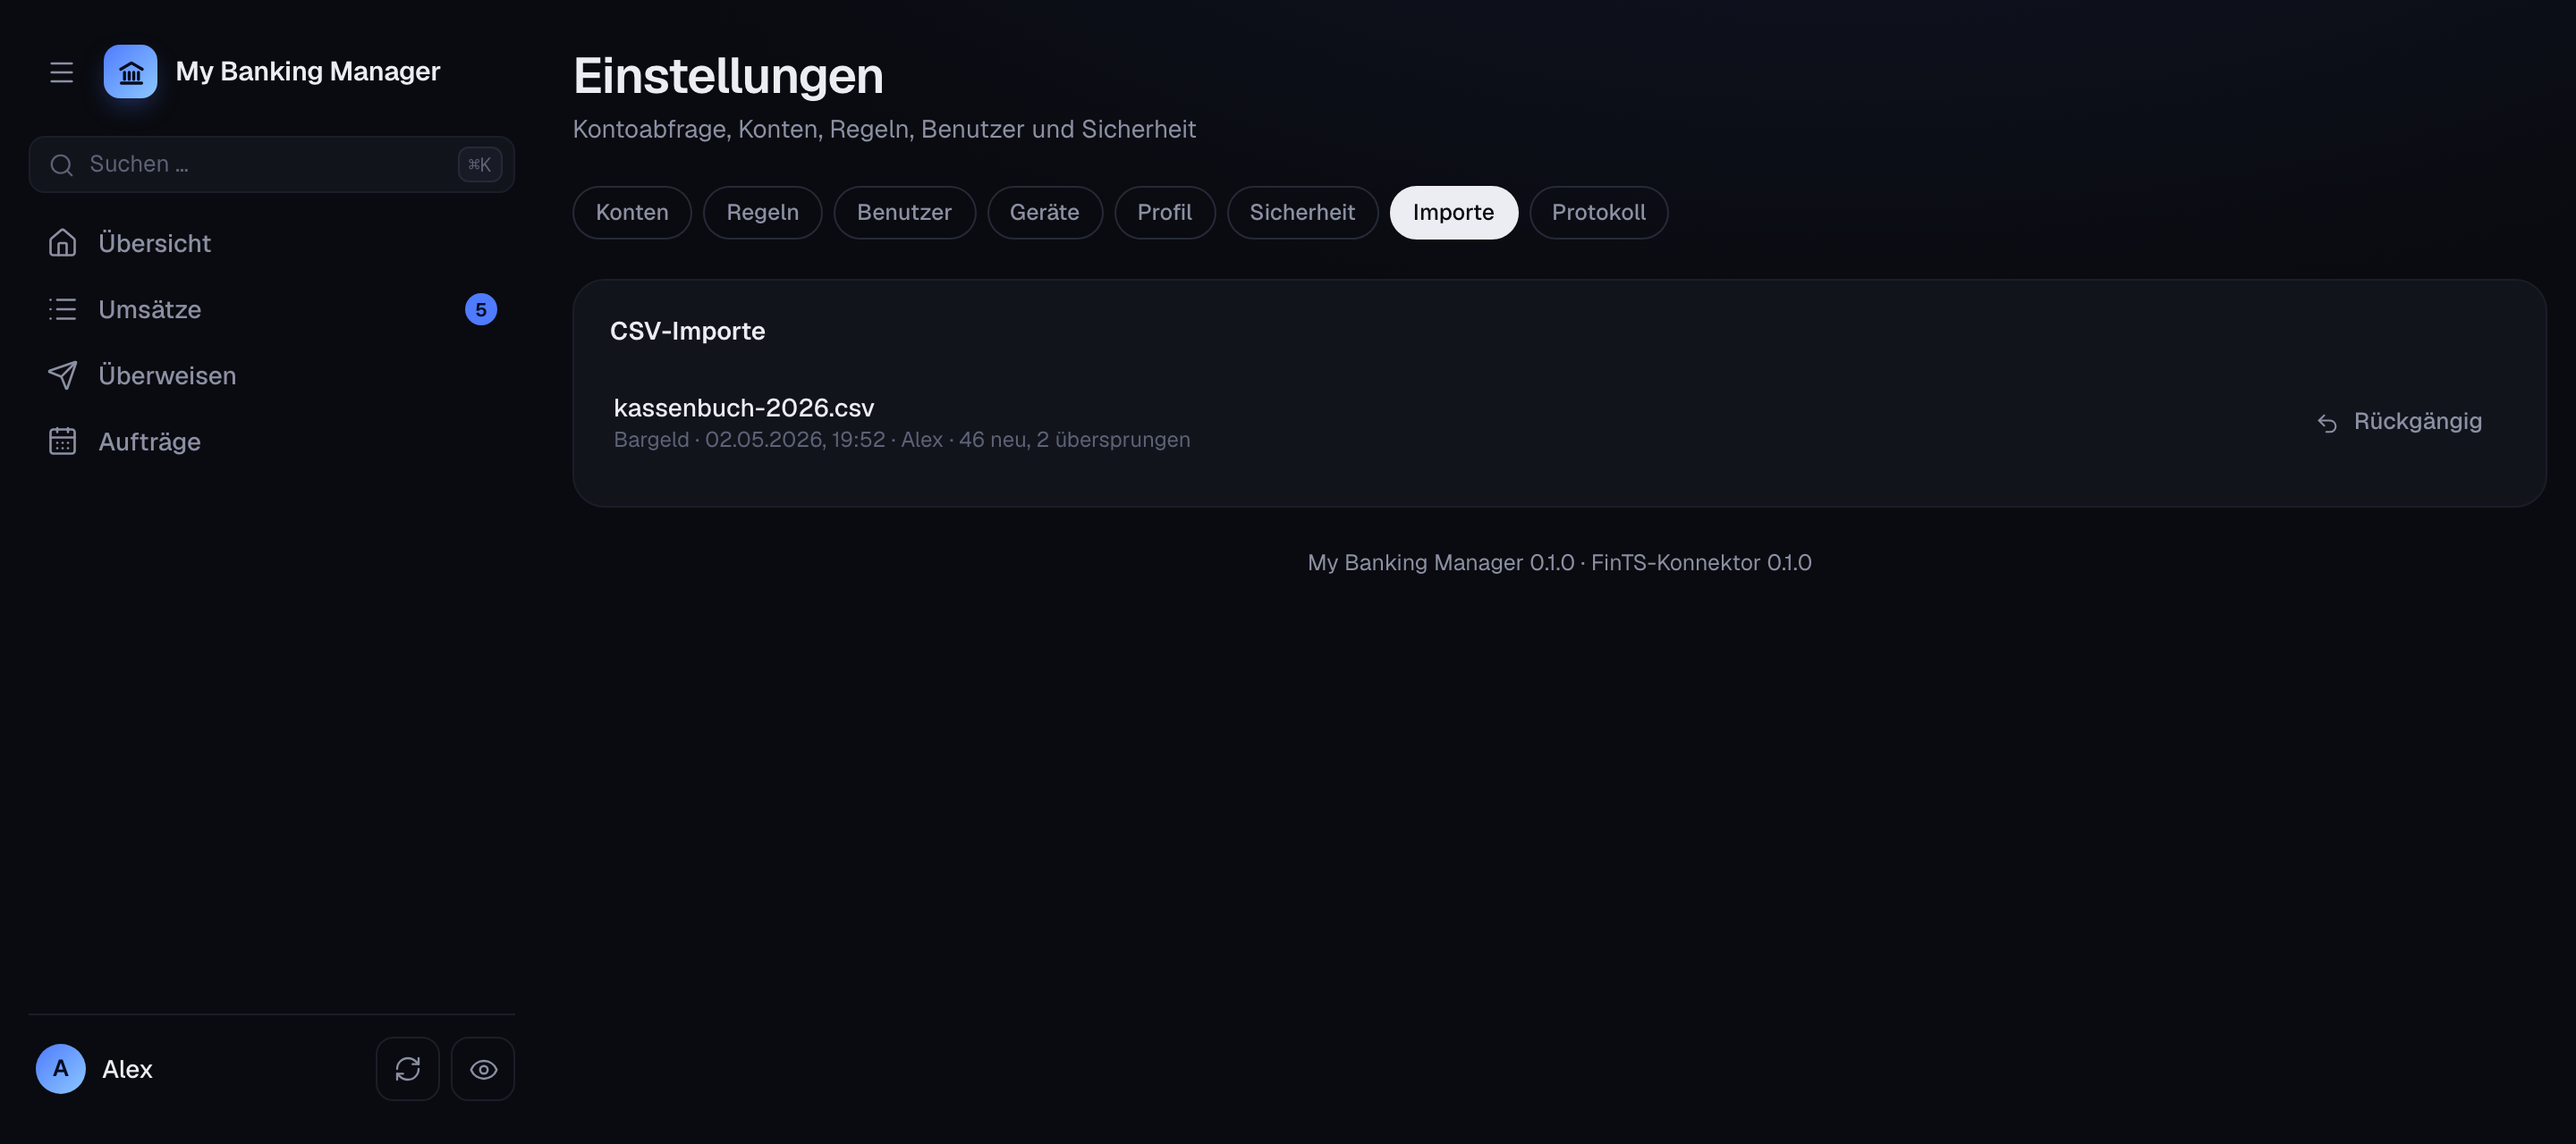
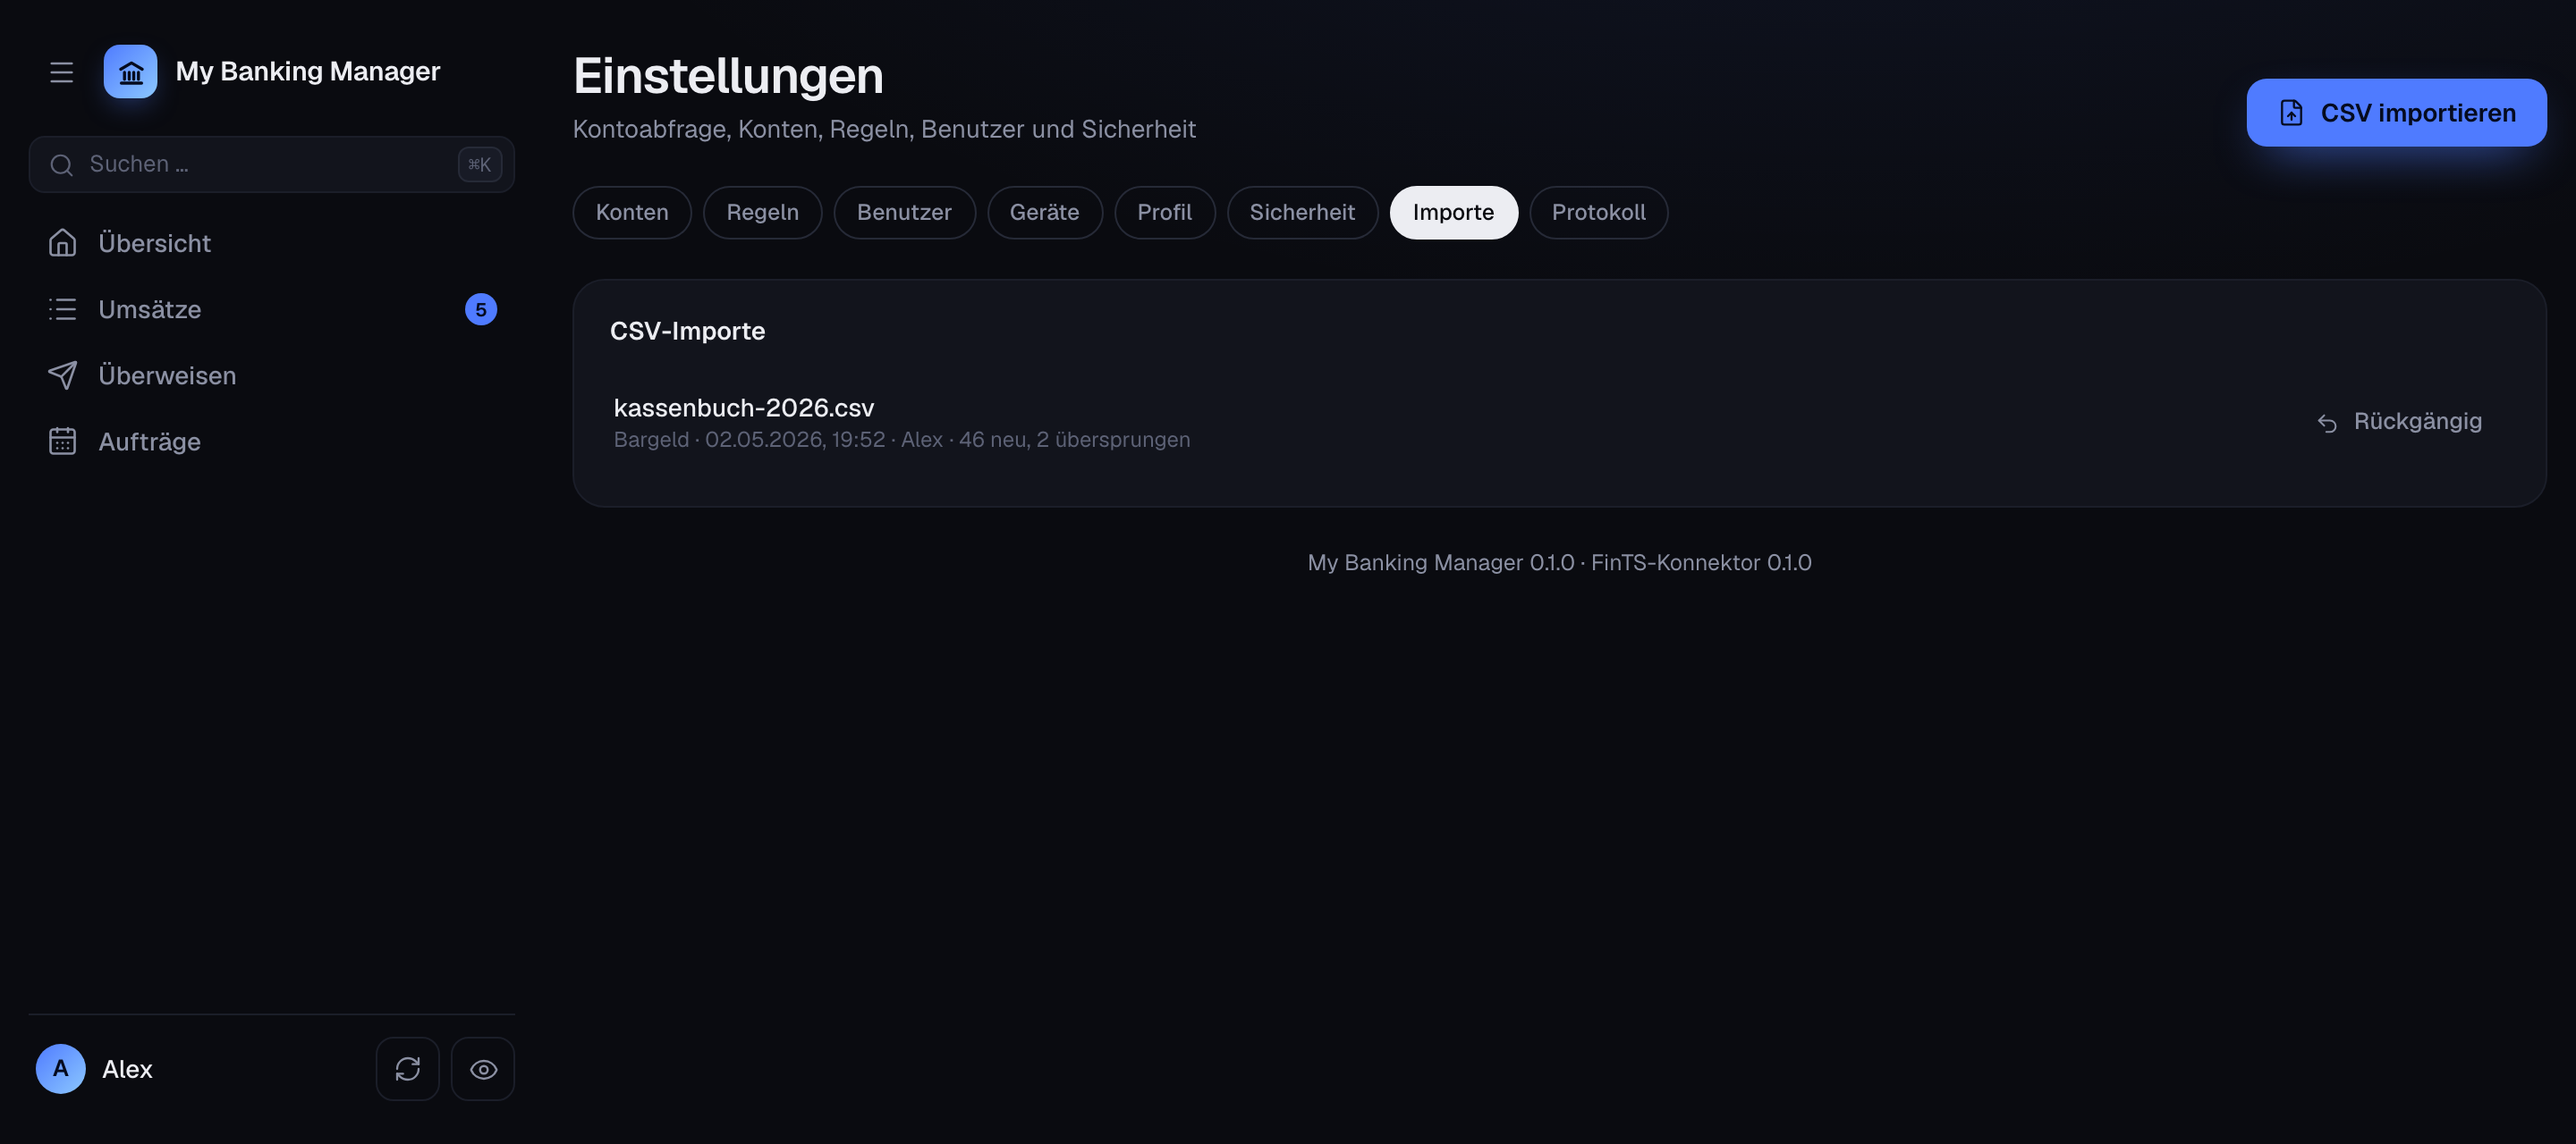
feat(import): CSV-Import aus Einstellungen → Importe starten
Der Reiter „Importe“ hat oben rechts den Knopf „CSV importieren“. Er öffnet
den Import-Dialog ohne vorgewähltes Konto; das Konto wird im Dialog gewählt.
Doku, Screenshot und Release-Notiz sind angepasst.

Changed region(s): [[0.875, 0.0625, 1.0, 0.1562]]

diff --git a/clients/web/src/pages/Settings.tsx b/clients/web/src/pages/Settings.tsx
@@ -49,6 +49,14 @@ export function SettingsPage() {
                         </button>
                     </div>
                 )}
+                {tab === "imports" && (
+                    <div className="head-actions">
+                        <button className="btn btn-primary" onClick={() => ui.open({ kind: "import" })}>
+                            <Ic icon={FileUp} size={16} />
+                            CSV importieren
+                        </button>
+                    </div>
+                )}
             </div>
             <nav className="settings-nav" aria-label="Bereiche">
                 {SETTINGS_TABS.map((t) => (
@@ -578,7 +586,7 @@ function ImportsTab() {
         <section className="panel">
             <div className="panel-head"><h3>CSV-Importe</h3></div>
             {importsQuery.isPending && <SkeletonRows rows={3} plain />}
-            {importsQuery.isSuccess && imports.length === 0 && <Empty icon={FileUp} title="Noch nichts importiert" text="CSV-Dateien importierst du über das Menü eines Kontos oder die Befehlspalette (⌘K)." />}
+            {importsQuery.isSuccess && imports.length === 0 && <Empty icon={FileUp} title="Noch nichts importiert" text="CSV-Dateien importierst du hier über „CSV importieren“, über das Menü eines Kontos oder die Befehlspalette (⌘K)." />}
             <div className="row-list">
                 {imports.map((i) => (
                     <div className="row-item" key={i.id}>

diff --git a/docs/guide/import.md b/docs/guide/import.md
@@ -6,8 +6,9 @@ Offline-Konto.
 
 ## So geht es
 
-1. Im Menü eines Kontos **Importieren …** wählen (oder in der Befehlspalette ++cmd+k++ nach
-   „Importieren“ suchen).
+1. Im Menü eines Kontos **Importieren …** wählen, unter **Einstellungen → Importe** auf
+   **CSV importieren** klicken (dann wählst du das Konto im Dialog) oder in der Befehlspalette
+   ++cmd+k++ nach „Importieren“ suchen.
 2. Die Datei in den Dialog ziehen oder auswählen. MBM liest UTF-8 und Windows-1252 und Dateien bis
    20 MB.
 3. **Spalten prüfen:** MBM erkennt die Spalten gängiger Exporte (zum Beispiel Sparkasse CSV-CAMT,
@@ -31,7 +32,8 @@ legt es auf Wunsch an. Zeilen ohne Kategorie laufen durch die [Regeln](kategorie
 
 ## Rückgängig machen
 
-Unter **Einstellungen → Importe** steht jeder Import mit Datei, Zeitpunkt, Benutzer und Anzahl.
+Unter **Einstellungen → Importe** steht jeder Import mit Datei, Zeitpunkt, Benutzer und Anzahl;
+über **CSV importieren** startest du dort auch einen neuen.
 „Rückgängig“ löscht die Umsätze dieses Imports, die noch da sind.
 
 ![Einstellungen, Importe: ein Import mit Datei und Anzahl](../assets/screenshots/einstellungen-importe-dark.png)

diff --git a/docs/guide/einstellungen.md b/docs/guide/einstellungen.md
@@ -11,7 +11,7 @@ Versionen von MBM und vom FinTS-Konnektor.
 | **Geräte** | Angemeldete Browser und Geräte-Tokens |
 | **Profil** | Darstellung und „Beträge beim Start ausblenden“, je Geräteklasse |
 | **Sicherheit** | Eigenes Passwort, Wiederherstellungsschlüssel, Sperren |
-| **Importe** | Alle CSV-Importe, mit Rückgängig. Siehe [CSV-Import](import.md). |
+| **Importe** | Alle CSV-Importe, mit Rückgängig, und **CSV importieren** für einen neuen Import. Siehe [CSV-Import](import.md). |
 | **Protokoll** | Wer wann was getan hat |
 
 ## Benutzer

diff --git a/.release/next.md b/.release/next.md
@@ -12,5 +12,7 @@ Nothing inside an HTML comment is published.
 
 ### Verbessert
 
+- **CSV-Import:** Unter Einstellungen → Importe startest du über „CSV importieren“ direkt einen
+  neuen Import; das Konto wählst du im Dialog.
 - **CSV-Import:** Die Liste der zu importierenden Umsätze ist nur so hoch, dass der ganze Dialog
   ins Fenster passt; „Importieren“ bleibt ohne Scrollen erreichbar.
